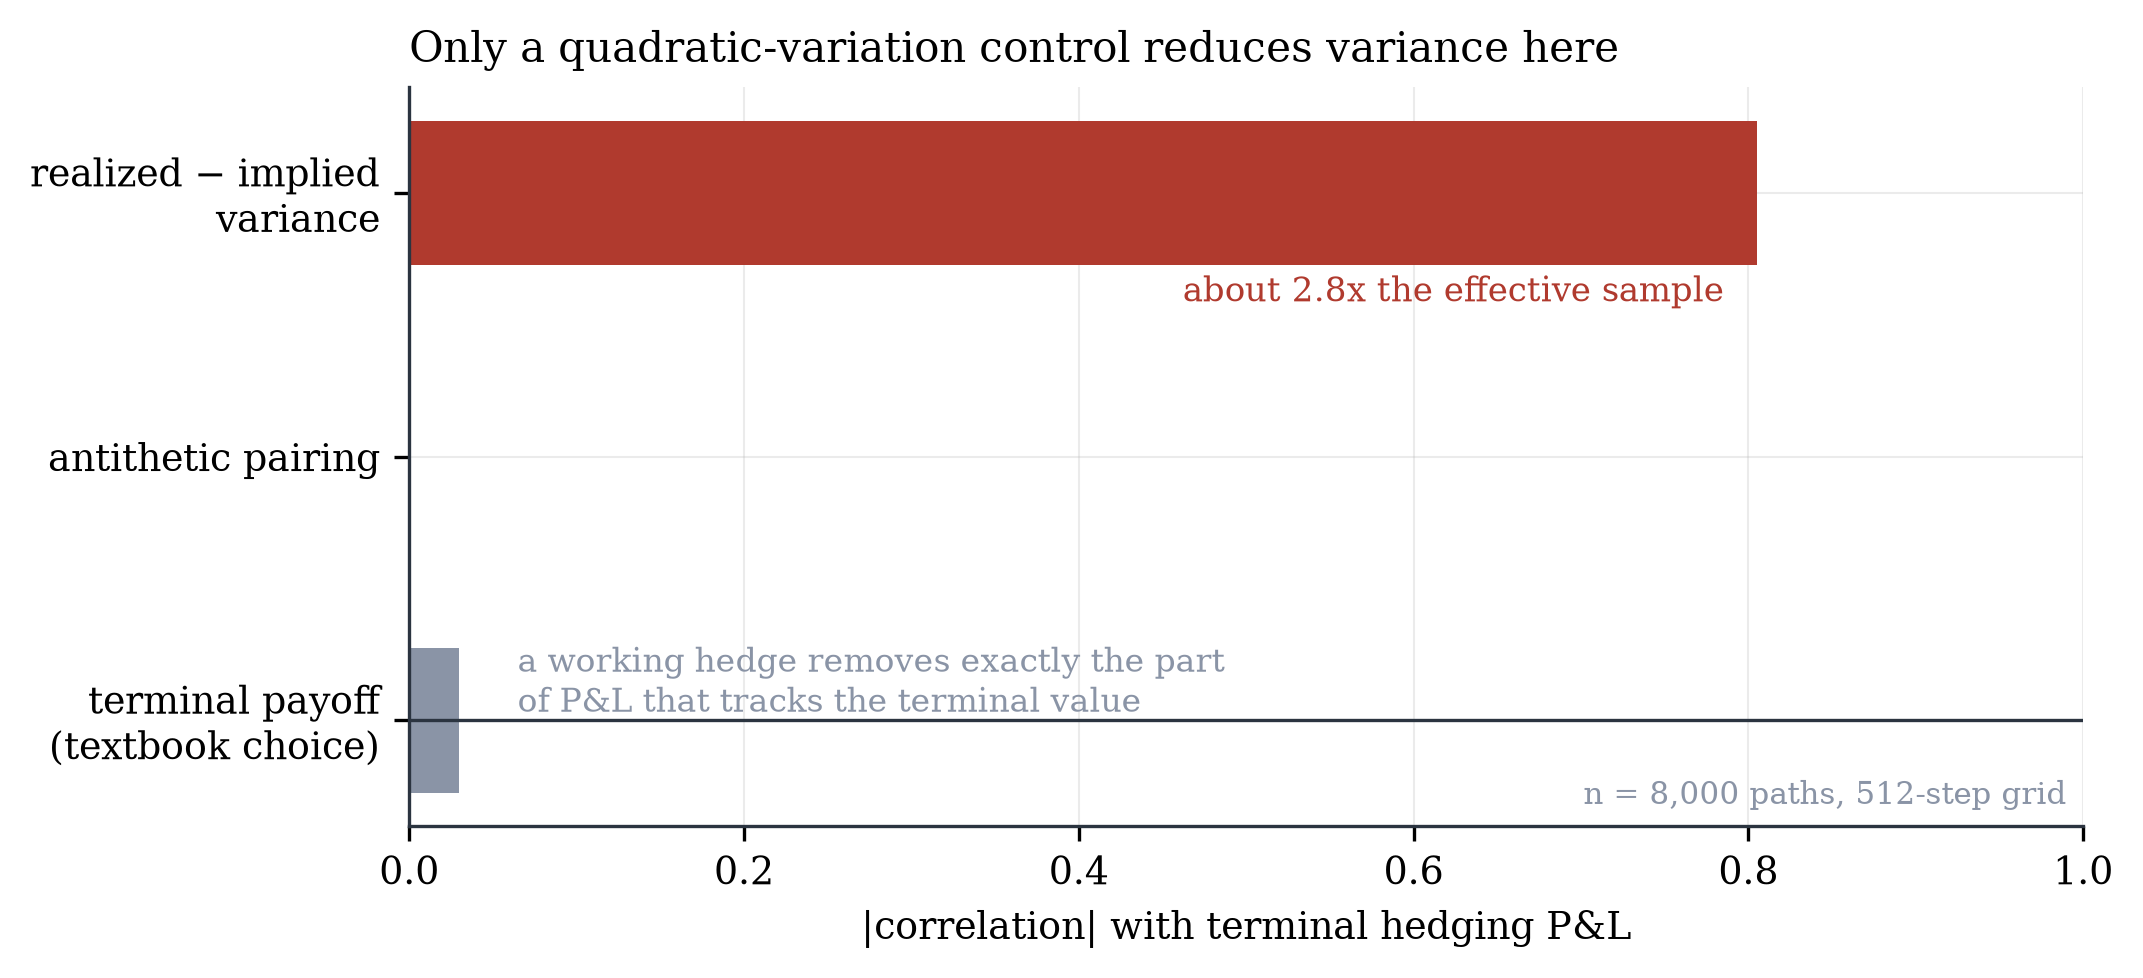
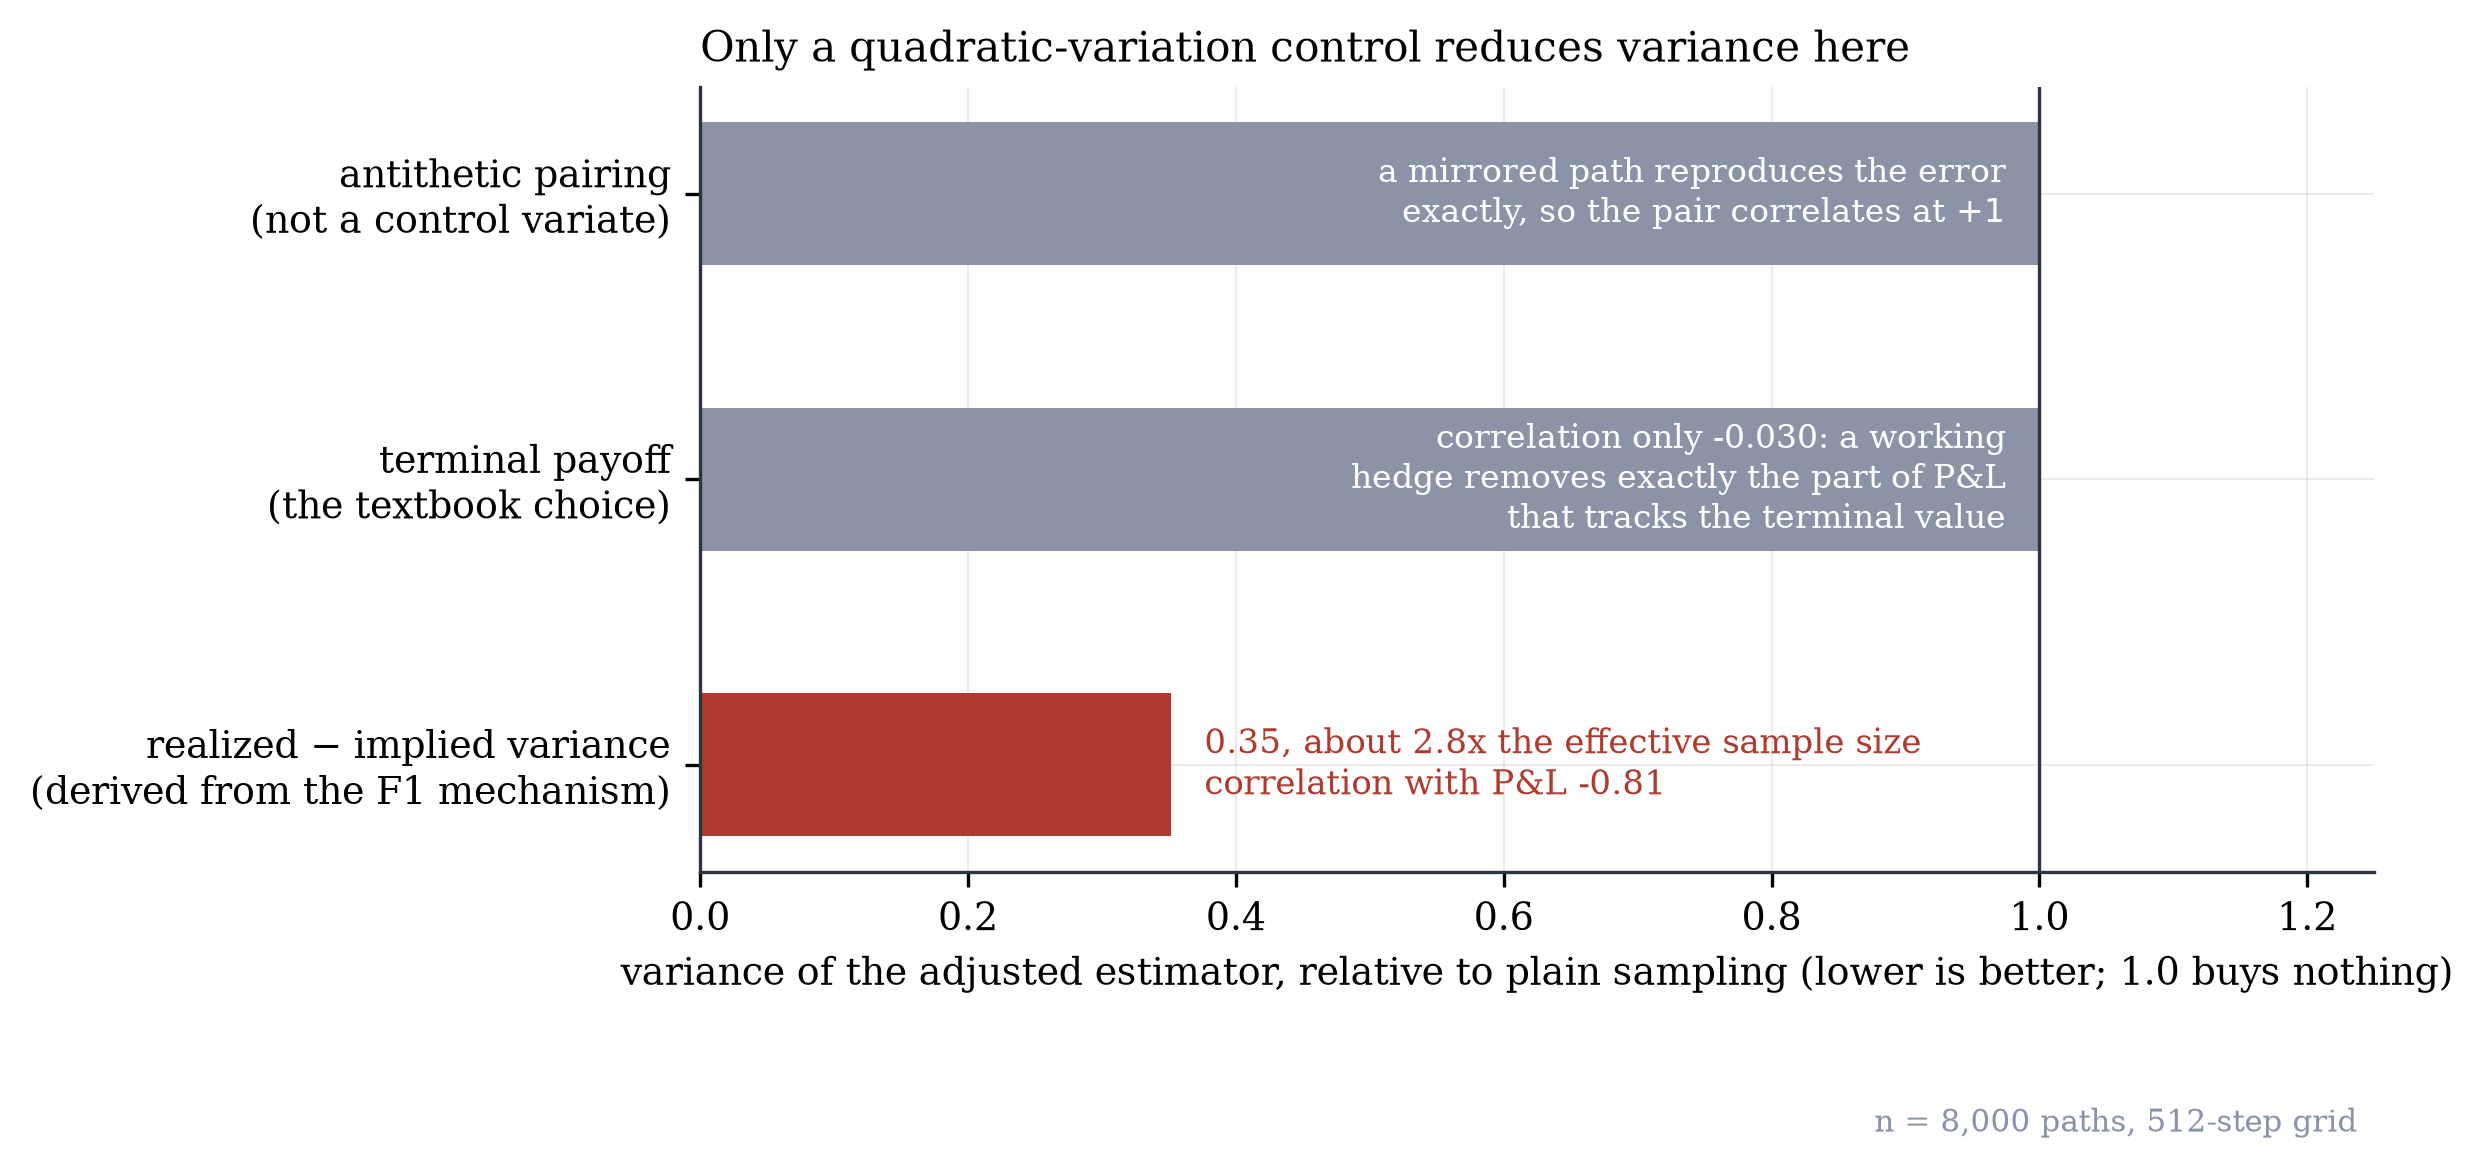
Plot variance reduction on a comparable axis

diff --git a/scripts/figures.py b/scripts/figures.py
@@ -174,29 +174,48 @@ def fig_market_making():
 
 
 def fig_variance_reduction():
-    """The control variate that works, against the two that do not."""
+    """Variance ratio, not correlation.
+
+    An earlier version plotted |correlation with P&L| and gave antithetic
+    sampling a zero-length bar, which reads as "uncorrelated" and is the wrong
+    reason. Antithetic is not a control variate: a mirrored path reproduces the
+    hedging error exactly, so the pair correlates at +1 and the scheme removes
+    nothing. Variance ratio puts all three on one comparable axis.
+    """
     v = F["variance_reduction"]
-    fig, ax = plt.subplots(figsize=(7.2, 3.2))
-    names = ["terminal payoff\n(textbook choice)", "antithetic pairing",
-             "realized $-$ implied\nvariance"]
-    corr = [abs(v["payoff_control_correlation"]), 0.0, abs(v["correlation"])]
-    colours = [MUTED, MUTED, ACCENT]
-    bars = ax.barh(names, corr, color=colours, height=0.55)
-    zero_line(ax)
-    ax.set_xlabel("|correlation| with terminal hedging P&L")
-    ax.set_xlim(0, 1.0)
+    fig, ax = plt.subplots(figsize=(7.2, 3.4))
+
+    names = ["realized $-$ implied variance\n(derived from the F1 mechanism)",
+             "terminal payoff\n(the textbook choice)",
+             "antithetic pairing\n(not a control variate)"]
+    ratios = [v["variance_ratio"], 1.0, 1.0]
+    colours = [ACCENT, MUTED, MUTED]
+    ax.barh(names, ratios, color=colours, height=0.5, zorder=2)
+
+    ax.axvline(1.0, color="#2b3440", linewidth=0.8, zorder=3)
+    ax.set_xlim(0, 1.25)
+    ax.set_xlabel("variance of the adjusted estimator, relative to plain sampling "
+                  "(lower is better; 1.0 buys nothing)")
     ax.set_title("Only a quadratic-variation control reduces variance here",
                  loc="left", fontsize=10)
-    ax.annotate(f"variance ratio {v['variance_ratio']:.2f},\n"
-                f"about {1 / v['variance_ratio']:.1f}x the effective sample",
-                xy=(corr[2], 2), xytext=(-8, -26), textcoords="offset points",
-                fontsize=8.2, color=ACCENT, ha="right")
-    ax.annotate("a working hedge removes exactly the part\n"
-                "of P&L that tracks the terminal value",
-                xy=(corr[0], 0), xytext=(14, 2), textcoords="offset points",
-                fontsize=8, color=MUTED)
+
+    ax.annotate(f"{v['variance_ratio']:.2f}, about "
+                f"{1 / v['variance_ratio']:.1f}x the effective sample size\n"
+                f"correlation with P&L {v['correlation']:+.2f}",
+                xy=(v["variance_ratio"], 0), xytext=(8, 0),
+                textcoords="offset points", va="center", fontsize=8.2, color=ACCENT)
+    ax.annotate(f"correlation only {v['payoff_control_correlation']:+.3f}: a working\n"
+                f"hedge removes exactly the part of P&L\nthat tracks the terminal value",
+                xy=(1.0, 1), xytext=(-8, 0), textcoords="offset points",
+                va="center", ha="right", fontsize=8, color="white")
+    ax.annotate("a mirrored path reproduces the error\n"
+                "exactly, so the pair correlates at $+1$",
+                xy=(1.0, 2), xytext=(-8, 0), textcoords="offset points",
+                va="center", ha="right", fontsize=8, color="white")
+
     meta = F["meta"]
-    annotate_n(ax, f"n = {meta['n_paths']:,} paths, 512-step grid")
+    ax.text(0.99, -0.30, f"n = {meta['n_paths']:,} paths, 512-step grid",
+            transform=ax.transAxes, ha="right", va="top", fontsize=7.4, color=MUTED)
     fig.savefig(FIG / "variance_reduction.png")
     plt.close(fig)
 
